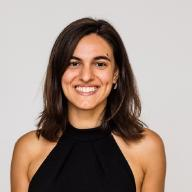
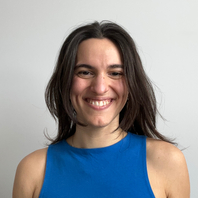
update image and small changes

diff --git a/404.html b/404.html
@@ -17,8 +17,8 @@
   <meta name="theme-color" content="rgb(255,255,255)" />
   <meta http-equiv="X-UA-Compatible" content="ie=edge" />
   
-  <title>404 Page not found &middot; Home</title>
-    <meta name="title" content="404 Page not found &middot; Home" />
+  <title>404 Page not found &middot; Gemma Canet Tarrés</title>
+    <meta name="title" content="404 Page not found &middot; Gemma Canet Tarrés" />
   
   <meta name="description" content="I&#39;m a Computer Vision PhD student advised by Prof. John Collomosse and Dr Andrew Gilbert at University of Surrey. My research interests are in the broad aread of computer vision and machine learning, with a focus on deep learning. Particularly, I am interested in image generation, image editing and style transfer. My current research is in Multimodal Image Generation using Diffusion Models." />
   

diff --git a/publications/index.html b/publications/index.html
@@ -10,8 +10,8 @@
   <meta name="theme-color" content="rgb(255,255,255)" />
   <meta http-equiv="X-UA-Compatible" content="ie=edge" />
 
-  <title>Publications &middot; Home</title>
-  <meta name="title" content="Publications &middot; Home" />
+  <title>Publications &middot; Gemma Canet Tarrés</title>
+  <meta name="title" content="Publications &middot; Gemma Canet Tarrés" />
 
   <meta name="description"
     content="I&#39;m a Computer Vision PhD student advised by Prof. John Collomosse and Dr Andrew Gilbert at University of Surrey. My research interests are in the broad aread of computer vision and machine learning, with a focus on deep learning. Particularly, I am interested in image generation, image editing and style transfer. My current research is in Multimodal Image Generation using Diffusion Models." />

diff --git a/categories/index.html b/categories/index.html
@@ -17,8 +17,8 @@
   <meta name="theme-color" content="rgb(255,255,255)" />
   <meta http-equiv="X-UA-Compatible" content="ie=edge" />
   
-  <title>Categories &middot; Home</title>
-    <meta name="title" content="Categories &middot; Home" />
+  <title>Categories &middot; Gemma Canet Tarrés</title>
+    <meta name="title" content="Categories &middot; Gemma Canet Tarrés" />
   
   <meta name="description" content="I&#39;m a Computer Vision PhD student advised by Prof. John Collomosse and Dr Andrew Gilbert at University of Surrey. My research interests are in the broad aread of computer vision and machine learning, with a focus on deep learning. Particularly, I am interested in image generation, image editing and style transfer. My current research is in Multimodal Image Generation using Diffusion Models." />
   

diff --git a/about/multitwine/index.html b/about/multitwine/index.html
@@ -12,8 +12,8 @@
 
 
 
-  <title>Multitwine: Multi-Object Compositing with Text and Layout Control &middot; Home</title>
-  <meta name="title" content="multitwine &middot; Home" />
+  <title>Multitwine: Multi-Object Compositing with Text and Layout Control &middot; Gemma Canet Tarrés</title>
+  <meta name="title" content="multitwine &middot; Gemma Canet Tarrés" />
 
   <meta name="description"
     content="I&#39;m a Computer Vision PhD student advised by Prof. John Collomosse and Dr Andrew Gilbert Gilbert at University of Surrey. My research interests are in the broad aread of computer vision and machine learning, with a focus on deep learning. Particularly, I am interested in image generation, image editing and style transfer. My current research is in Multimodal Image Generation using Diffusion Models." />

diff --git a/multitwine/index.html b/multitwine/index.html
@@ -12,8 +12,8 @@
 
 
 
-  <title>Multitwine: Multi-Object Compositing with Text and Layout Control &middot; Home</title>
-  <meta name="title" content="multitwine &middot; Home" />
+  <title>Multitwine: Multi-Object Compositing with Text and Layout Control &middot; Gemma Canet Tarrés</title>
+  <meta name="title" content="multitwine &middot; Gemma Canet Tarrés" />
 
   <meta name="description"
     content="I&#39;m a Computer Vision PhD student advised by Prof. John Collomosse and Dr Andrew Gilbert Gilbert at University of Surrey. My research interests are in the broad aread of computer vision and machine learning, with a focus on deep learning. Particularly, I am interested in image generation, image editing and style transfer. My current research is in Multimodal Image Generation using Diffusion Models." />

diff --git a/outsidethebbox/index.html b/outsidethebbox/index.html
@@ -12,8 +12,8 @@
 
 
 
-  <title>Thinking Outside the BBox: Unconstrained Generative Object Compositing &middot; Home</title>
-  <meta name="title" content="BBox &middot; Home" />
+  <title>Thinking Outside the BBox: Unconstrained Generative Object Compositing &middot; Gemma Canet Tarrés</title>
+  <meta name="title" content="BBox &middot; Gemma Canet Tarrés" />
 
   <meta name="description"
     content="I&#39;m a Computer Vision PhD student advised by Prof. John Collomosse and Dr Andrew Gilbert Gilbert at University of Surrey. My research interests are in the broad aread of computer vision and machine learning, with a focus on deep learning. Particularly, I am interested in image generation, image editing and style transfer. My current research is in Multimodal Image Generation using Diffusion Models." />

diff --git a/tags/advanced/index.html b/tags/advanced/index.html
@@ -17,8 +17,8 @@
   <meta name="theme-color" content="rgb(255,255,255)" />
   <meta http-equiv="X-UA-Compatible" content="ie=edge" />
   
-  <title>advanced &middot; Home</title>
-    <meta name="title" content="advanced &middot; Home" />
+  <title>advanced &middot; Gemma Canet Tarrés</title>
+    <meta name="title" content="advanced &middot; Gemma Canet Tarrés" />
   
   <meta name="description" content="I&#39;m a Computer Vision PhD student advised by Prof. John Collomosse and Dr Andrew Gilbert at University of Surrey. My research interests are in the broad aread of computer vision and machine learning, with a focus on deep learning. Particularly, I am interested in image generation, image editing and style transfer. My current research is in Multimodal Image Generation using Diffusion Models." />
   

diff --git a/parasol/index.html b/parasol/index.html
@@ -12,8 +12,8 @@
 
 
 
-  <title>PARASOL: Parametric Style Control for Diffusion Image Synthesis &middot; Home</title>
-  <meta name="title" content="PARASOL &middot; Home" />
+  <title>PARASOL: Parametric Style Control for Diffusion Image Synthesis &middot; Gemma Canet Tarrés</title>
+  <meta name="title" content="PARASOL &middot; Gemma Canet Tarrés" />
 
   <meta name="description"
     content="I&#39;m a Computer Vision PhD student advised by Prof. John Collomosse and Dr Andrew Gilbert Gilbert at University of Surrey. My research interests are in the broad aread of computer vision and machine learning, with a focus on deep learning. Particularly, I am interested in image generation, image editing and style transfer. My current research is in Multimodal Image Generation using Diffusion Models." />

diff --git a/tags/sample/index.html b/tags/sample/index.html
@@ -17,8 +17,8 @@
   <meta name="theme-color" content="rgb(255,255,255)" />
   <meta http-equiv="X-UA-Compatible" content="ie=edge" />
   
-  <title>sample &middot; Home</title>
-    <meta name="title" content="sample &middot; Home" />
+  <title>sample &middot; Gemma Canet Tarrés</title>
+    <meta name="title" content="sample &middot; Gemma Canet Tarrés" />
   
   <meta name="description" content="I&#39;m a Computer Vision PhD student advised by Prof. John Collomosse and Dr Andrew Gilbert at University of Surrey. My research interests are in the broad aread of computer vision and machine learning, with a focus on deep learning. Particularly, I am interested in image generation, image editing and style transfer. My current research is in Multimodal Image Generation using Diffusion Models." />
   

diff --git a/posts/index.html b/posts/index.html
@@ -17,8 +17,8 @@
   <meta name="theme-color" content="rgb(255,255,255)" />
   <meta http-equiv="X-UA-Compatible" content="ie=edge" />
   
-  <title>Posts &middot; Home</title>
-    <meta name="title" content="Posts &middot; Home" />
+  <title>Posts &middot; Gemma Canet Tarrés</title>
+    <meta name="title" content="Posts &middot; Gemma Canet Tarrés" />
   
   <meta name="description" content="I&#39;m a Computer Vision PhD student advised by Prof. John Collomosse and Dr Andrew Gilbert at University of Surrey. My research interests are in the broad aread of computer vision and machine learning, with a focus on deep learning. Particularly, I am interested in image generation, image editing and style transfer. My current research is in Multimodal Image Generation using Diffusion Models." />
   

diff --git a/tags/users/index.html b/tags/users/index.html
@@ -17,8 +17,8 @@
   <meta name="theme-color" content="rgb(255,255,255)" />
   <meta http-equiv="X-UA-Compatible" content="ie=edge" />
   
-  <title>users &middot; Home</title>
-    <meta name="title" content="users &middot; Home" />
+  <title>users &middot; Gemma Canet Tarrés</title>
+    <meta name="title" content="users &middot; Gemma Canet Tarrés" />
   
   <meta name="description" content="I&#39;m a Computer Vision PhD student advised by Prof. John Collomosse and Dr Andrew Gilbert at University of Surrey. My research interests are in the broad aread of computer vision and machine learning, with a focus on deep learning. Particularly, I am interested in image generation, image editing and style transfer. My current research is in Multimodal Image Generation using Diffusion Models." />
   

diff --git a/tags/index.html b/tags/index.html
@@ -17,8 +17,8 @@
   <meta name="theme-color" content="rgb(255,255,255)" />
   <meta http-equiv="X-UA-Compatible" content="ie=edge" />
   
-  <title>Tags &middot; Home</title>
-    <meta name="title" content="Tags &middot; Home" />
+  <title>Tags &middot; Gemma Canet Tarrés</title>
+    <meta name="title" content="Tags &middot; Gemma Canet Tarrés" />
   
   <meta name="description" content="I&#39;m a Computer Vision PhD student advised by Prof. John Collomosse and Dr Andrew Gilbert at University of Surrey. My research interests are in the broad aread of computer vision and machine learning, with a focus on deep learning. Particularly, I am interested in image generation, image editing and style transfer. My current research is in Multimodal Image Generation using Diffusion Models." />
   
